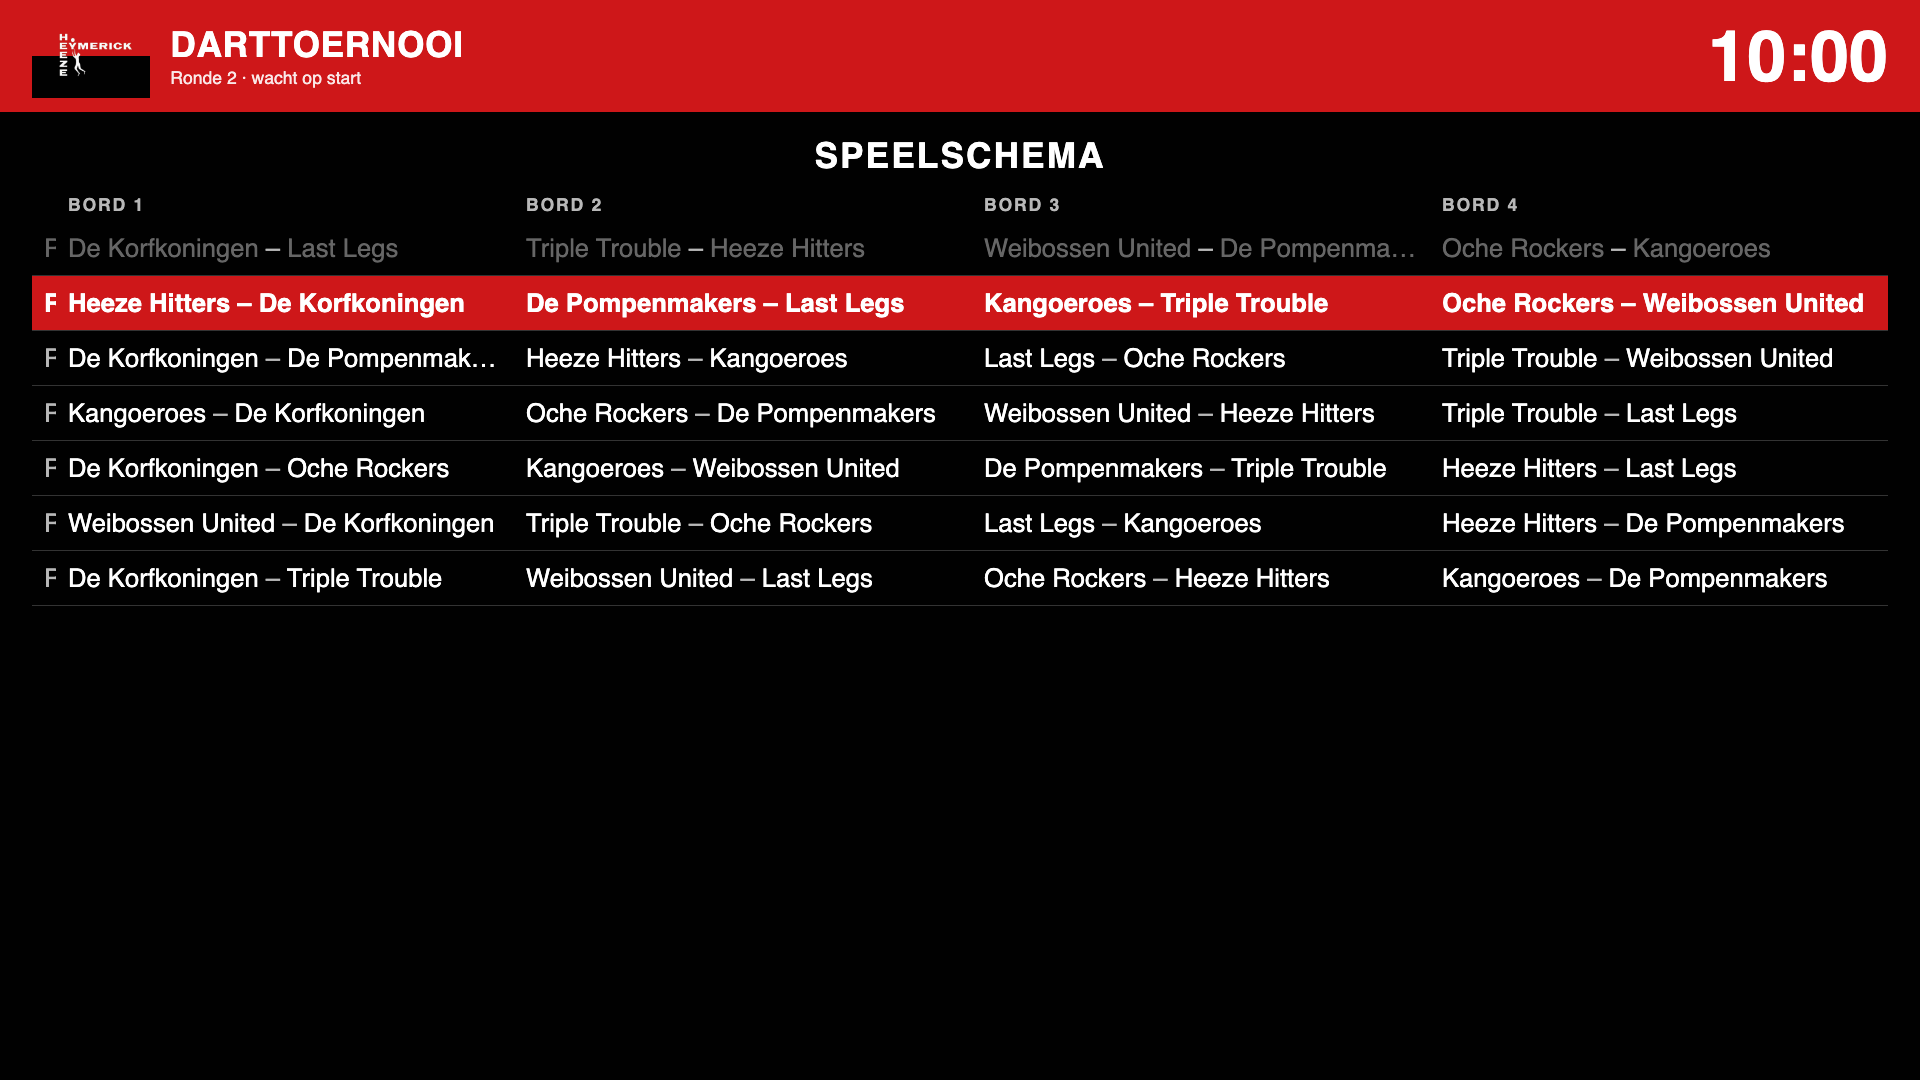
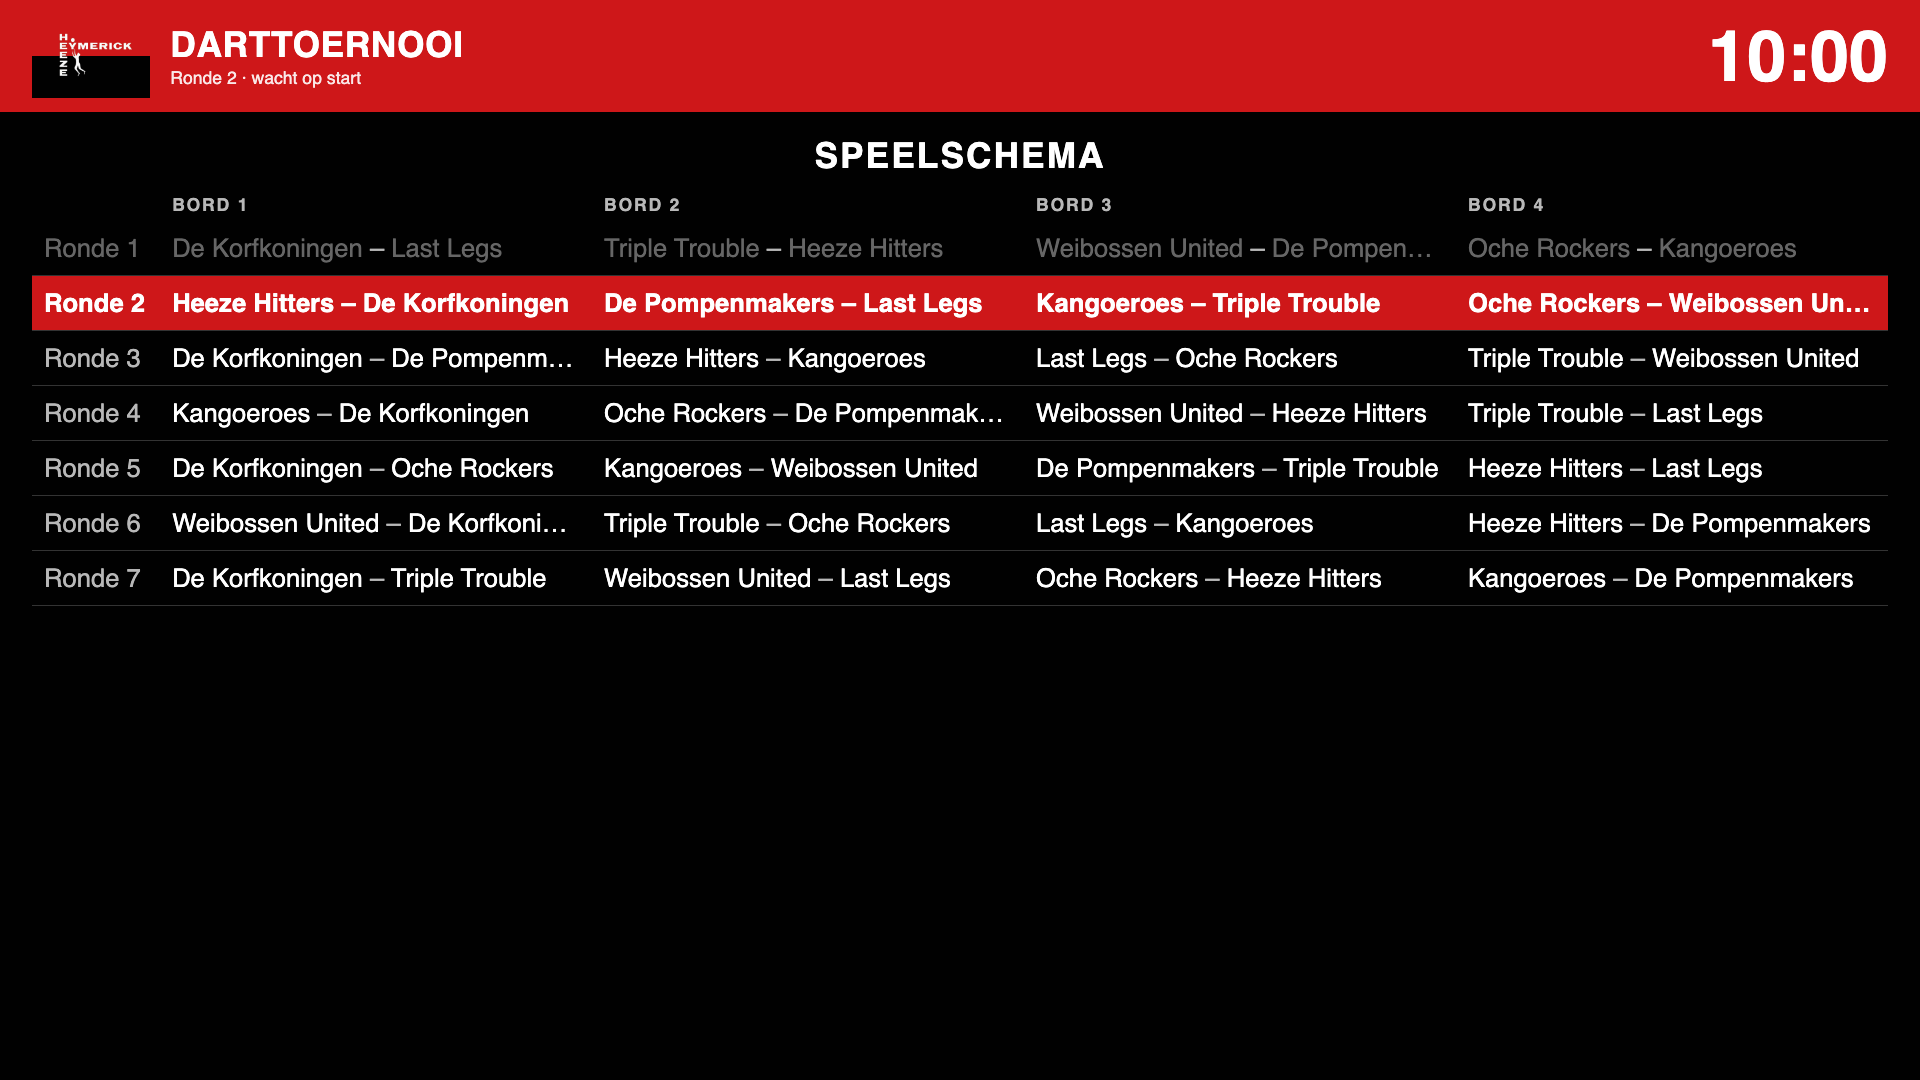
commit

diff --git a/tournament/static/display.html b/tournament/static/display.html
@@ -41,7 +41,7 @@
   .schedule table { width:100%; border-collapse:collapse; font-size:1.6rem; }
   .schedule th { color:var(--grijs); font-weight:700; text-transform:uppercase; letter-spacing:.1em; font-size:1.1rem; padding:6px 12px; text-align:left; }
   .schedule td { padding:12px; border-bottom:1px solid var(--lijn); white-space:nowrap; overflow:hidden; text-overflow:ellipsis; max-width:0; }
-  .schedule td.rnd { color:var(--grijs); width:9ch; }
+  .schedule td.rnd { color:var(--grijs); width:9ch; max-width:none; }
   .schedule .vs { color:var(--grijs); }
   .schedule tr.current td { background:var(--rood); color:var(--wit); font-weight:700; }
   .schedule tr.current td.rnd, .schedule tr.current .vs { color:var(--wit); }

diff --git a/tournament/README.md b/tournament/README.md
@@ -15,10 +15,12 @@ matching `TARGETS` list in the three pages under `tournament/static/`.
 
 ## What it looks like
 
-Big screen during a round, and the grand total when time is up:
+Big screen during a round, the grand total when time is up, and the schedule
+between rounds:
 
 ![big screen during play](../images/tournament/display_boards.png)
 ![grand total](../images/tournament/display_totals.png)
+![schedule](../images/tournament/display_schedule.png)
 
 Organiser control page and the manual scoring page for one board (phone):
 
@@ -41,7 +43,10 @@ and totals. Start with `--fresh` to wipe it.
 ## Running a round
 
 1. Start the server. Note the laptop's IP address.
-2. Open `/control`, fill in the eight team names, set the round duration, save.
+2. Open `/control`. Enter the teams, one per line, and save. Press
+   `Generate round robin`: every team meets every other team once (7 rounds
+   for 8 teams on 4 boards). Lower the number of rounds to play part of it,
+   or change any match in the table and save. Set the round duration.
 3. On each board laptop run one command and leave it alone:
 
    ```
@@ -52,12 +57,14 @@ and totals. Start with `--fresh` to wipe it.
    The window shows `Waiting for round start`. (`GUI.py` still works for a
    manual setup via the menus.)
 4. Open `/` on the big screen.
-5. Press `Start round` in `/control`. All boards reset to 0 and the countdown
-   starts everywhere.
+5. Press `Start round` in `/control`. The boards get the teams of that round
+   from the schedule, reset to 0, and the countdown starts everywhere.
 6. When the timer hits zero every board shows `TIME`, stops accepting scores,
    and the big screen shows the grand total.
 7. Press `Next round` to add the round to the totals and reset the boards.
-   Rename teams per board if they rotate, then `Start round` again.
+   The next round's teams appear on the boards and the big screen shows the
+   schedule with that round highlighted until you press `Start round` again.
+   `Teams on the boards now` lets you override a match by hand.
 
 `Stop now` ends a round early. The display override in `/control` forces the
 big screen to boards or totals regardless of the timer.
